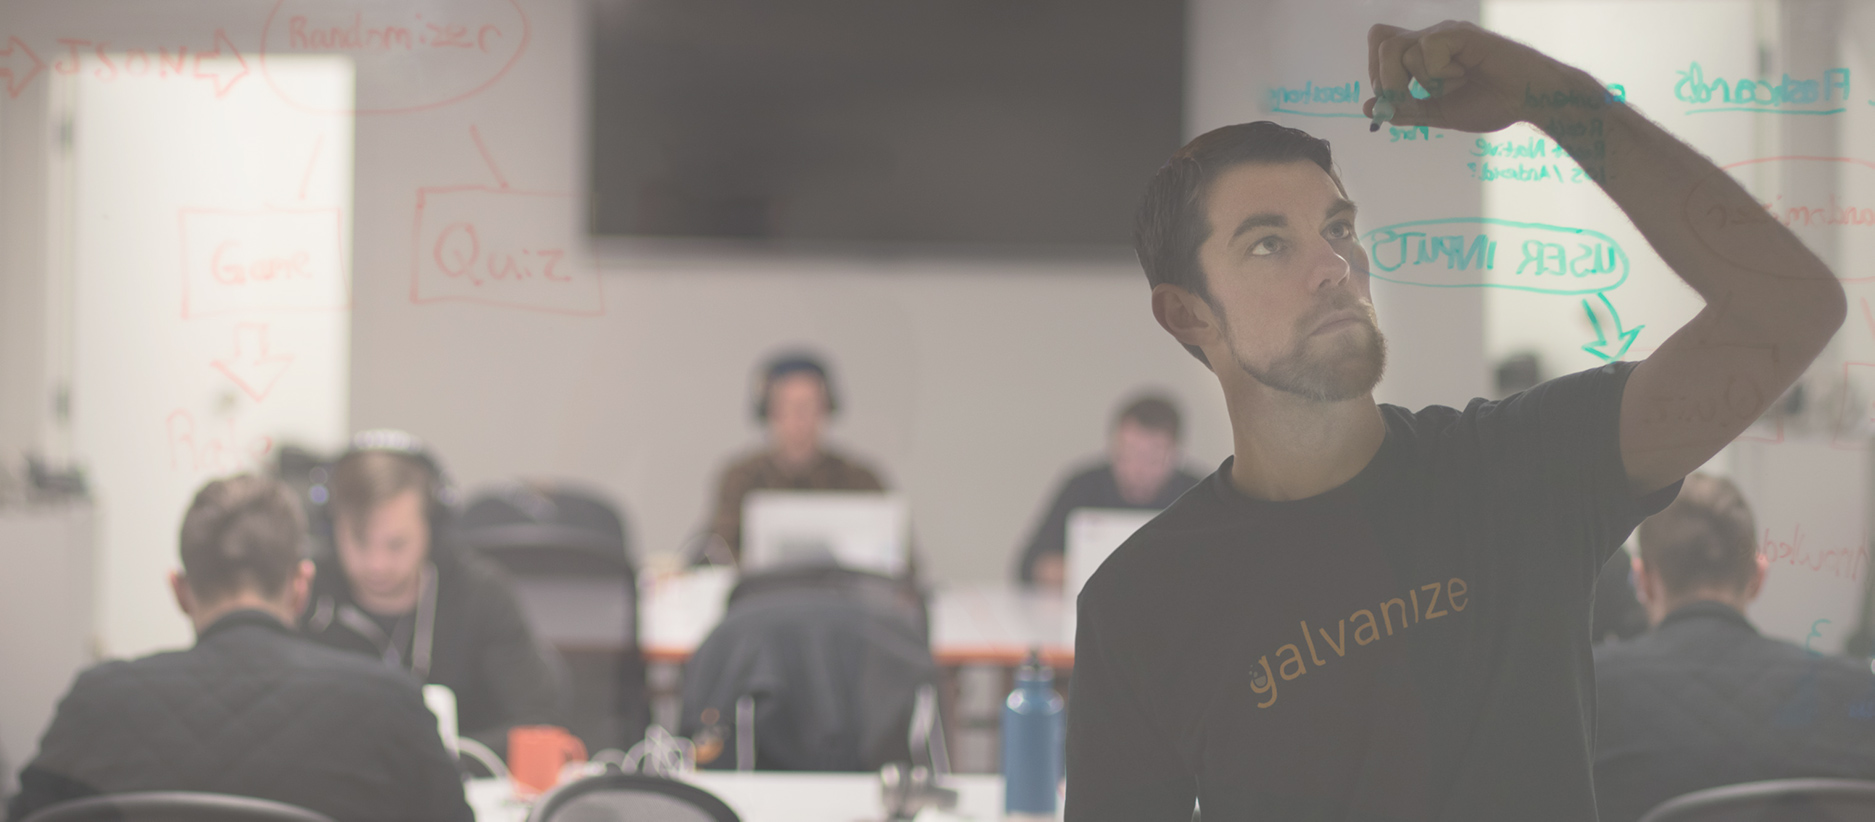
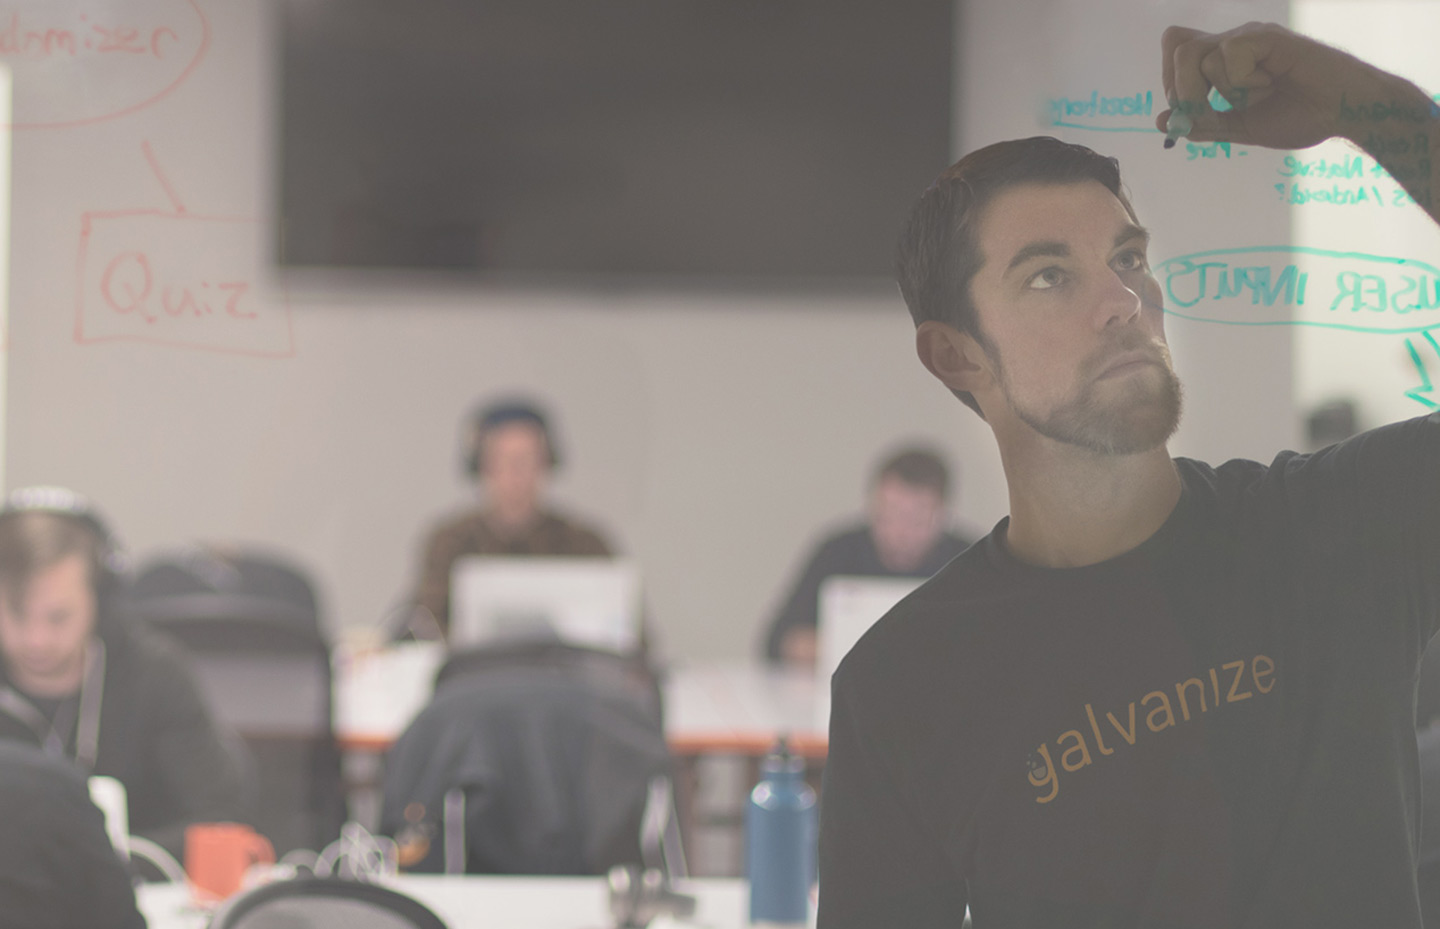
Changed Image

diff --git a/css/creative.min.css b/css/creative.min.css
@@ -66,7 +66,7 @@ h6 {
 }
 
 ::-moz-selection {
-  color: ##f4f4f4;
+  color: #f4f4f4;
   background: #212529;
   text-shadow: none;
 }
@@ -108,27 +108,27 @@ img::-moz-selection {
   color: #c0b283;
 }
 
-#mainNav .navbar-nav > li.nav-item > a.nav-link,
-#mainNav .navbar-nav > li.nav-item > a.nav-link:focus {
+#mainNav .navbar-nav>li.nav-item>a.nav-link,
+#mainNav .navbar-nav>li.nav-item>a.nav-link:focus {
   font-size: 0.9rem;
   font-weight: 700;
   text-transform: uppercase;
   color: #f4f4f4;
 }
 
-#mainNav .navbar-nav > li.nav-item > a.nav-link:focus:hover,
-#mainNav .navbar-nav > li.nav-item > a.nav-link:hover {
+#mainNav .navbar-nav>li.nav-item>a.nav-link:focus:hover,
+#mainNav .navbar-nav>li.nav-item>a.nav-link:hover {
   color: #f4f4f4;
 }
 
-#mainNav .navbar-nav > li.nav-item > a.nav-link.active,
-#mainNav .navbar-nav > li.nav-item > a.nav-link:focus.active {
+#mainNav .navbar-nav>li.nav-item>a.nav-link.active,
+#mainNav .navbar-nav>li.nav-item>a.nav-link:focus.active {
   color: #f4f4f4 !important;
   background-color: transparent;
 }
 
-#mainNav .navbar-nav > li.nav-item > a.nav-link.active:hover,
-#mainNav .navbar-nav > li.nav-item > a.nav-link:focus.active:hover {
+#mainNav .navbar-nav>li.nav-item>a.nav-link.active:hover,
+#mainNav .navbar-nav>li.nav-item>a.nav-link:focus.active:hover {
   background-color: transparent;
 }
 
@@ -137,47 +137,59 @@ img::-moz-selection {
     border-color: #123c69;
     background-color: #123c69;
   }
+
   #mainNav .navbar-brand {
     color: #f4f4f4;
   }
+
   #mainNav .navbar-brand:focus,
   #mainNav .navbar-brand:hover {
     color: #c0b283;
   }
-  #mainNav .navbar-nav > li.nav-item > a.nav-link {
+
+  #mainNav .navbar-nav>li.nav-item>a.nav-link {
     padding: 0.5rem 1rem;
   }
-  #mainNav .navbar-nav > li.nav-item > a.nav-link,
-  #mainNav .navbar-nav > li.nav-item > a.nav-link:focus {
+
+  #mainNav .navbar-nav>li.nav-item>a.nav-link,
+  #mainNav .navbar-nav>li.nav-item>a.nav-link:focus {
     color: #f4f4f4;
   }
-  #mainNav .navbar-nav > li.nav-item > a.nav-link:focus:hover,
-  #mainNav .navbar-nav > li.nav-item > a.nav-link:hover {
+
+  #mainNav .navbar-nav>li.nav-item>a.nav-link:focus:hover,
+  #mainNav .navbar-nav>li.nav-item>a.nav-link:hover {
     color: #f4f4f4;
   }
+
   #mainNav.navbar-shrink {
     border-bottom: 1px solid rgba(33, 37, 41, 0.1);
     background-color: #373737;
   }
+
   #mainNav.navbar-shrink .navbar-brand {
     color: #f4f4f4;
   }
+
   #mainNav.navbar-shrink .navbar-brand:focus,
   #mainNav.navbar-shrink .navbar-brand:hover {
     color: #f4f4f4;
   }
-  #mainNav.navbar-shrink .navbar-nav > li.nav-item > a.nav-link,
-  #mainNav.navbar-shrink .navbar-nav > li.nav-item > a.nav-link:focus {
+
+  #mainNav.navbar-shrink .navbar-nav>li.nav-item>a.nav-link,
+  #mainNav.navbar-shrink .navbar-nav>li.nav-item>a.nav-link:focus {
     color: #f4f4f4;
   }
-  #mainNav.navbar-shrink .navbar-nav > li.nav-item > a.nav-link:focus:hover,
-  #mainNav.navbar-shrink .navbar-nav > li.nav-item > a.nav-link:hover {
+
+  #mainNav.navbar-shrink .navbar-nav>li.nav-item>a.nav-link:focus:hover,
+  #mainNav.navbar-shrink .navbar-nav>li.nav-item>a.nav-link:hover {
     color: #c0b283;
   }
 }
+
 #drop-shadow {
   text-shadow: 1px 1px 2px rgba(0, 0, 0, 0.6) !important;
 }
+
 header.masthead {
   padding-top: 10rem;
   padding-bottom: calc(10rem - 56px);
@@ -252,9 +264,11 @@ header.masthead {
     -o-background-size: cover;
     background-size: cover;
   }
+
   .resume {
     display: none;
   }
+
   .flex {
     display: flex;
     flex-direction: column;
@@ -287,6 +301,7 @@ header.masthead p {
     padding-top: 0;
     padding-bottom: 0;
   }
+
   header.masthead h1 {
     font-size: 3rem;
   }
@@ -341,6 +356,7 @@ header.masthead p {
   .portfolio-box .portfolio-box-caption .portfolio-box-caption-content .project-category {
     font-size: 16px;
   }
+
   .portfolio-box .portfolio-box-caption .portfolio-box-caption-content .project-name {
     font-size: 22px;
   }

diff --git a/index.html b/index.html
@@ -78,7 +78,7 @@
     <div class="container-fluid p-0">
        <div class="row no-gutters popup-gallery" style="background-color: #373737";>
           <a class="portfolio-box" href="https://developer.paymentshub.com/" target="_blank" style="max-width: 100%"!important;>
-            <img class="img-fluid" src="img/home.png" alt="API Dev Portal">
+            <img class="img-fluid" src="img/ConfluenceBanner2.jpg" alt="API Dev Portal">
             <div class="portfolio-box-caption">
               <div class="portfolio-box-caption-content">
                 <div class="project-category text-faded">
@@ -102,7 +102,7 @@
                   API Dev Portal
                 </div>
                 <div class="project-name">
-                  Co-managed roadmap for <em>Developer Engine</em> app
+                  Co-managed development and roadmap for the <em>Developer Engine</em> app
                 </div>
               </div>
             </div>
